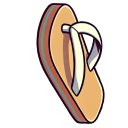
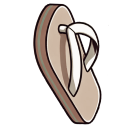
change the flipflops color to match the overall color of the game

diff --git a/src/styles.css b/src/styles.css
@@ -10,6 +10,7 @@ html {
   overflow: hidden;
 }
 
+
 h1 {
   text-align: center;
   font-size: 90px;
@@ -49,7 +50,7 @@ h3 {
 
 .grid {
   width: 800px;
-  height: 400px;
+  height: 600px;
   display: flex;
   flex-wrap: wrap;
   margin: 0 auto;
